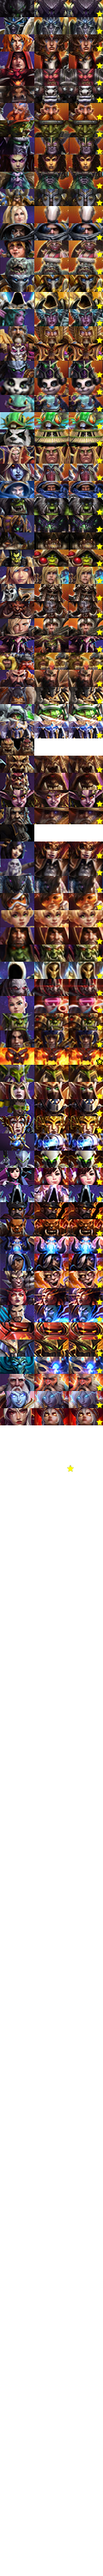
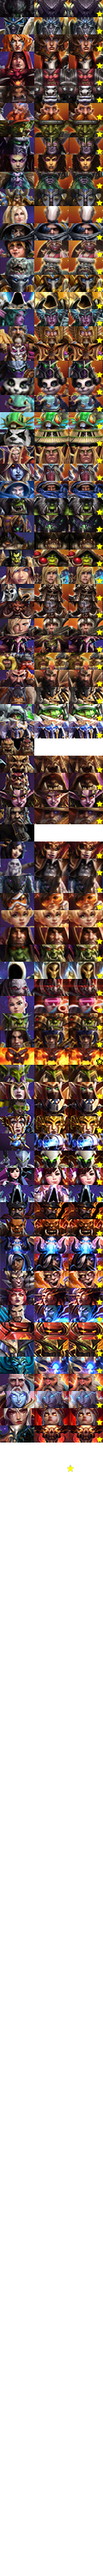
Update subreddit to Mephisto
Update banner, flair, and sidebar text

Changed region(s): [[0.0, 0.527, 1.0, 0.558]]

diff --git a/custom.scss b/custom.scss
@@ -603,7 +603,7 @@ a.voteWeight {
 
 div.titlebox span.number:after {
   z-index: 1;
-  content: " Scarlet Crusaders"
+  content: " Lords of Hatred"
 }
 
 .titlebox .users-online {
@@ -620,7 +620,7 @@ div.titlebox span.number:after {
 
 .titlebox .users-online .number:after {
   z-index: 1;
-  content: " burning in the light"
+  content: " corrupting Zakarum priests"
 }
 
 .titlebox .number,

diff --git a/user_flair/hero_flair.scss b/user_flair/hero_flair.scss
@@ -86,4 +86,5 @@
 @include hero-flair-set("fenix",       79);
 @include hero-flair-set("cain",        80);
 @include hero-flair-set("yrel",        81);
-@include hero-flair-set("whitemane",   82);
+@include hero-flair-set("whitemane",   82);@include hero-flair-set("whitemane",   82);
+@include hero-flair-set("mephisto",    83);
